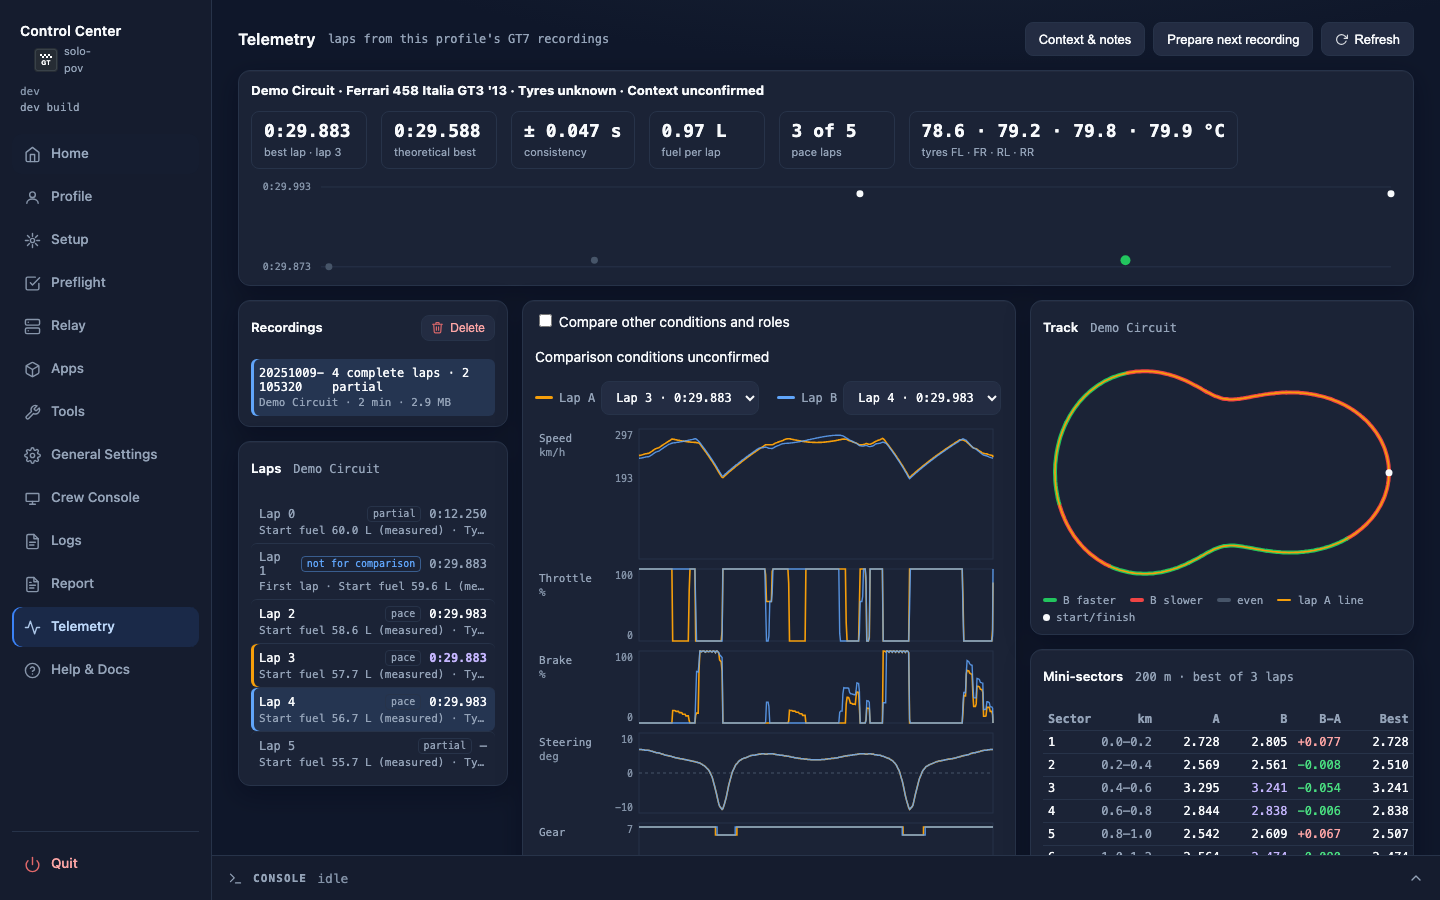
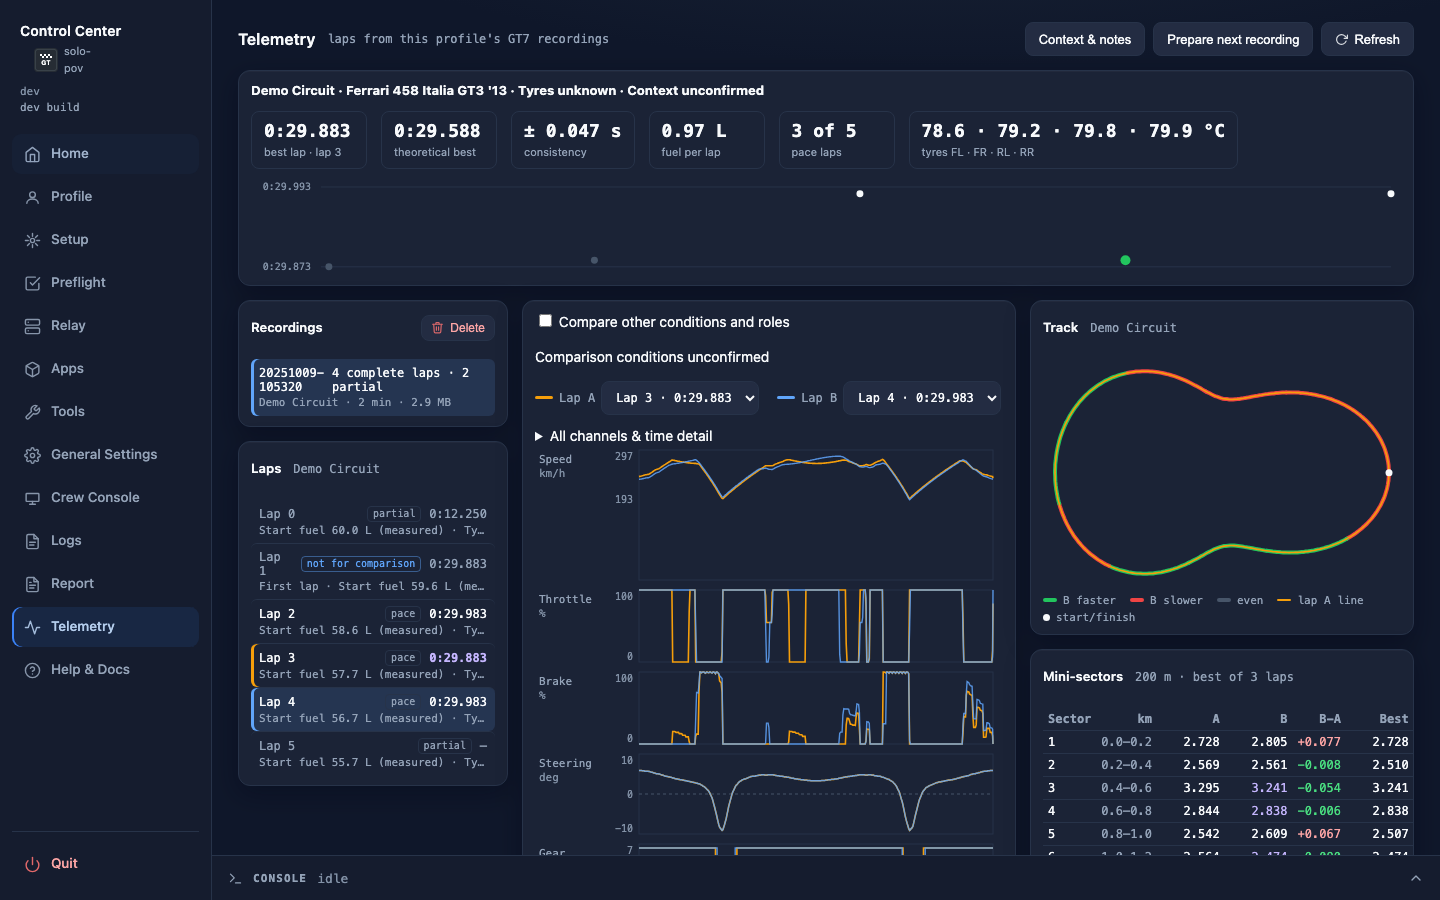
docs(telemetry): document channels, clocks and export schema
Refresh dev screenshots and describe confirmed versus diagnostic values, selected raw time windows, availability states and CSV compatibility.

diff --git a/src/docs/wiki/Control-Center.md b/src/docs/wiki/Control-Center.md
@@ -29,8 +29,14 @@ side and share the `runtime/` folder next to them.
   stop the relay, Companion, or streams: those are independent and keep running.
 - **Port busy?** Set `RACECAST_UI_PORT` in `.env` to a free port and relaunch.
 
-> **CLI alternative:** `racecast ui` runs the same server in a terminal (add
-> `--no-browser` to skip opening a tab). `racecast ui` and `racecast-ui` are interchangeable.
+> **CLI alternative:** `racecast telemetry export <name>` writes samples/laps CSV with a current
+> `context.json` snapshot, excluding drafts/history. `--diagnostics` adds `diagnostics.csv`.
+> Existing `samples.csv` columns remain at the start; confirmed channels and `__state` columns follow.
+> `channels.json` documents schema version, units, offsets, sentinels and compatibility columns.
+> Missing, unset and nonfinite values have blank numerical cells and distinct state values; genuine zero remains zero.
+> The historical `throttle_input_pct` and `brake_input_pct` names remain for compatibility, with their disputed
+> driver/filter interpretation documented. Neither represents a newly verified driver-input sensor.
+> `racecast telemetry index` builds the missing lap caches ahead of time.
 
 ## Security: keep it local
 
@@ -327,12 +333,31 @@ running relay.
   reads "no other lap to compare" and the charts show B alone. Laps on an unknown track
   compare only within their GT7 session. When other recordings have no cached laps yet,
   for example after a Set track, the view runs the index job first ("Indexing
-  N recordings…"). No click in the view replays a recording itself: loading a lap or
+  N recordings…"). No request rebuilds the full recording index: loading a lap or
   setting a track on a recording without cached laps also waits for that job.
 - **Charts.** Speed, throttle, brake, steering, gear and the delta of B against A over
   lap distance, each with its value range on the left. Below zero B is ahead, above zero
   behind; the delta panel ends with the final gap. Hover to read both laps at one point;
   the map shows where that point is.
+- **All channels & time detail.** Open this section and select up to eight values,
+  including constants, clutch/gearbox data and simulator flags. Distance is the default
+  comparison axis. A time window spans at most 30 seconds and reads each retained
+  original packet, preserving short cuts and stationary service events. Time windows
+  use receiver-clock seconds from the recorded lap boundary; distance views retain
+  the indexed lap's clock and common reference geometry. Partial and rejected laps
+  retain their receiver-clock label. Missing timing coverage stays unavailable.
+  Select **Load window** after changing the channels or bounds. Each chart reports
+  units, source offset, packet/derived provenance, constant values and counts of
+  available, missing, unset and nonfinite values. Flags and discrete values use steps.
+- **Raw diagnostics.** The separate checkbox offers uncertain fields and flag meanings.
+  Hover shows the native interpretation and original bytes at the cursor. These values
+  have no claimed physical units or validated sensor meaning. Quaternion components
+  are dimensionless; RPM display-alert thresholds are separate from a confirmed rev limit.
+  GT7 may report constant simulation values, including temperatures; a constant value
+  does not establish a changing real sensor measurement.
+
+![Control Center: telemetry channels](images/cc-telemetry-channels.png)
+
 - **Track map and mini-sectors.** Lap A is the thin line; lap B is split into 200 m
   mini-sectors, green where B is faster and red where it is slower (the legend under the
   map). The table lists every mini-sector with its distance, the times of A and B, the gap

diff --git a/src/ui/CLAUDE.md b/src/ui/CLAUDE.md
@@ -52,7 +52,7 @@ Loaded when working under `src/ui/`.
   Generate runs `racecast report generate` as the `report-generate` job and reads the
   written file through `GET /api/report/read?name=`. A counted lap's trace closes at
   the full lap length with a common zero-based, lap-normalized receiver clock, so its
-  sectors add up without a backwards closing point. Index version 5 separates capture
+  sectors add up without a backwards closing point. Index version 7 retains sparse recording seek offsets and separates capture
   completeness, trace coverage, roles, pace eligibility and historical reference status.
   The unfinished tail is `open_lap`, not an extra completed lap; API lists expose it
   separately and the single-lap endpoint can retrieve its trace. Data functions
@@ -66,6 +66,14 @@ Loaded when working under `src/ui/`.
   laps/lap/learn/delete. `learn` only assigns a layout that has a downloaded racing line
   (`TrackDB.has_downloaded_line`) and learns the line otherwise. Charts and map are
   inline SVG in `control-center.html` (block "Telemetry view"). Demo data for
+  Expanded channel detail is decoded on demand by `gt7_channels.py` and
+  `gt7_channel_detail.py`, through `GET /api/telemetry/channels`. Catalog requests are
+  lightweight; selected-channel windows reuse sparse byte offsets from the index,
+  with raw time windows bounded to 30 s / 5000 packets and at most eight channels.
+  The inline channel UI loads only while expanded, discards stale lap/selection answers,
+  reports constants/availability and keeps uncertain raw fields separate. CSV retains
+  its legacy column prefix, appends confirmed fields/states and documents them in
+  `channels.json`; `--diagnostics` adds a separate raw export.
   screenshots: `tools/make-demo-recording.py`. Tests: `tests/test_gt7_laps.py`,
   `tests/test_racecast.py`, `tests/test_ui_server.py`, `tests/test_make_demo_recording.py`.
 
